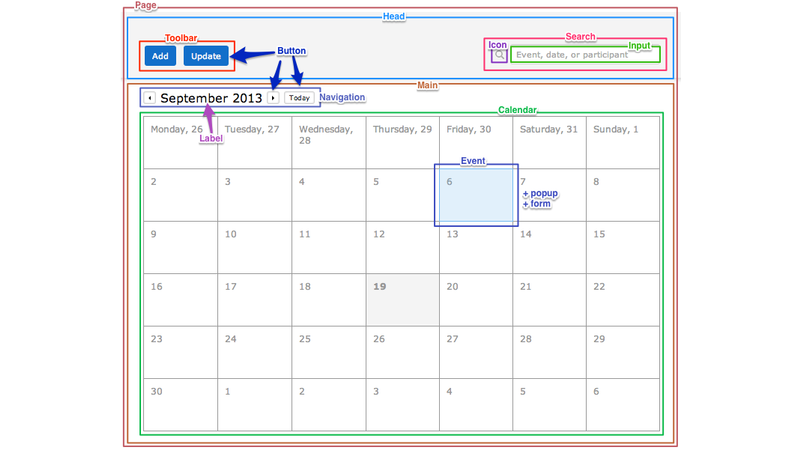
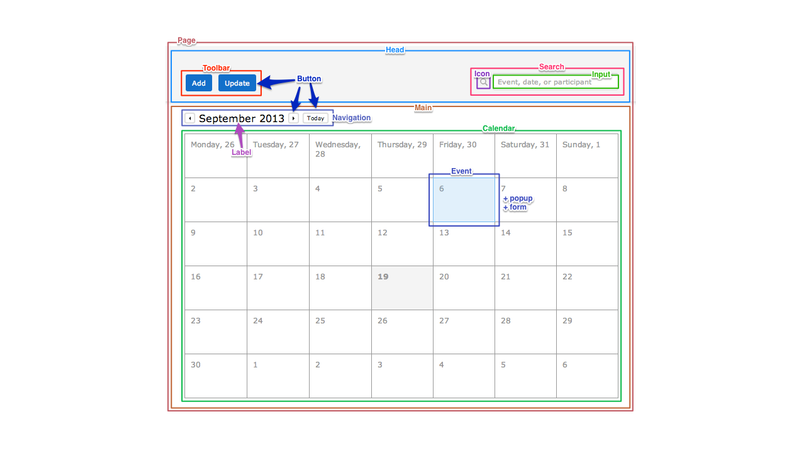
fix: add 8% padding around thumbnail images

Changed region(s): [[0.125, 0.0, 0.8438, 0.9956], [0.375, 0.4978, 0.4062, 0.5289], [0.3438, 0.4667, 0.375, 0.4978]]

diff --git a/blowfish/categories/blog/index.html b/blowfish/categories/blog/index.html
@@ -581,7 +581,7 @@
   
     <div class="flex-none relative overflow-hidden  thumbnail">
       <img
-        src="/tarmolov.github.com/blowfish/posts/how-i-use-evernote/thumbnail_hu_57fce764e24b3e82.png"
+        src="/tarmolov.github.com/blowfish/posts/how-i-use-evernote/thumbnail_hu_937923b794bae8a9.png"
         role="presentation"
         loading="lazy"
         decoding="async"
@@ -733,7 +733,7 @@
   
     <div class="flex-none relative overflow-hidden  thumbnail">
       <img
-        src="/tarmolov.github.com/blowfish/posts/bem-calendar/thumbnail_hu_6e10fa0adce6fcb7.png"
+        src="/tarmolov.github.com/blowfish/posts/bem-calendar/thumbnail_hu_501373e317e7e8a7.png"
         role="presentation"
         loading="lazy"
         decoding="async"

diff --git a/blowfish/index.html b/blowfish/index.html
@@ -559,7 +559,7 @@
   
     <div class="flex-none relative overflow-hidden  thumbnail">
       <img
-        src="/tarmolov.github.com/blowfish/posts/how-i-use-evernote/thumbnail_hu_57fce764e24b3e82.png"
+        src="/tarmolov.github.com/blowfish/posts/how-i-use-evernote/thumbnail_hu_937923b794bae8a9.png"
         role="presentation"
         loading="lazy"
         decoding="async"
@@ -708,7 +708,7 @@
   
     <div class="flex-none relative overflow-hidden  thumbnail">
       <img
-        src="/tarmolov.github.com/blowfish/posts/bem-calendar/thumbnail_hu_6e10fa0adce6fcb7.png"
+        src="/tarmolov.github.com/blowfish/posts/bem-calendar/thumbnail_hu_501373e317e7e8a7.png"
         role="presentation"
         loading="lazy"
         decoding="async"

diff --git a/blowfish/posts/index.html b/blowfish/posts/index.html
@@ -600,7 +600,7 @@
   
     <div class="flex-none relative overflow-hidden  thumbnail">
       <img
-        src="/tarmolov.github.com/blowfish/posts/how-i-use-evernote/thumbnail_hu_57fce764e24b3e82.png"
+        src="/tarmolov.github.com/blowfish/posts/how-i-use-evernote/thumbnail_hu_937923b794bae8a9.png"
         role="presentation"
         loading="lazy"
         decoding="async"
@@ -756,7 +756,7 @@
   
     <div class="flex-none relative overflow-hidden  thumbnail">
       <img
-        src="/tarmolov.github.com/blowfish/posts/bem-calendar/thumbnail_hu_6e10fa0adce6fcb7.png"
+        src="/tarmolov.github.com/blowfish/posts/bem-calendar/thumbnail_hu_501373e317e7e8a7.png"
         role="presentation"
         loading="lazy"
         decoding="async"
